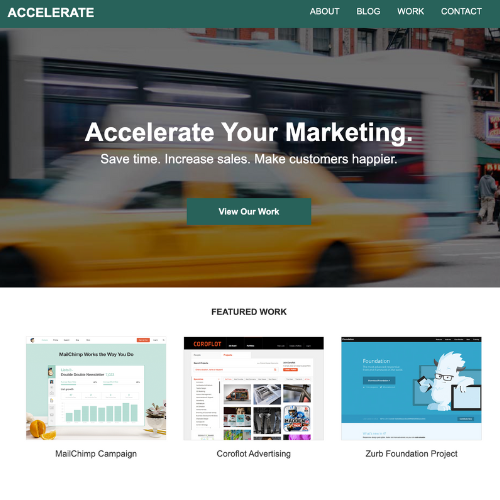
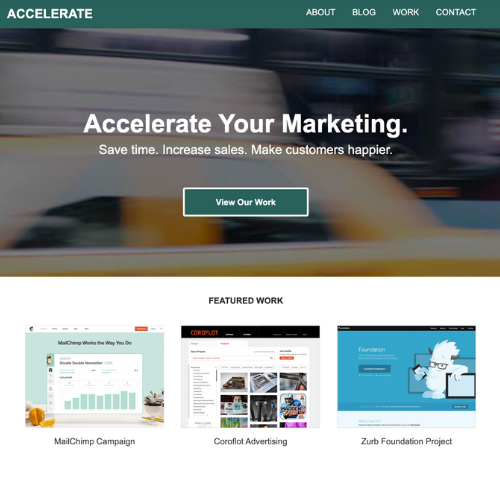
Added PromptAlchemy project, replaced Accelerate screenshot, added margin-top: auto to link buttons

diff --git a/index.html b/index.html
@@ -125,7 +125,7 @@
                     <a class="button" href="https://alisonh23.sg-host.com/" target="_blank" aria-label="View custom WordPress site">View Site</a>
                     <a class="button" href="https://github.com/alison-ah/accelerate-marketing-wp/tree/main" target="_blank" aria-label="View custom WordPress code">View Code</a>
                   </div>
-                </div>
+              </div>
 
               <div class="project">  
                 <h3><strong>Full Stack Collection App</strong><br><i>Family library card catalog</i></h3>
@@ -154,7 +154,7 @@
                     <a class="button" href="https://family-library-app.replit.app/" target="_blank" aria-label="View family library app site">View Site</a>
                     <a class="button" href="https://replit.com/@alison-ah/Family-Library-App-REST-API" target="_blank" aria-label="View family library app code">View Code</a>
                   </div>
-                </div>
+              </div>
 
               <div class="project">
                 <h3><strong>React App with Filters</strong><br><i>Resource list for learning to code</i></h3>  
@@ -164,7 +164,7 @@
                   </figure>
                   <h4>Skills</h4>
                   <ul>
-                    <li>Utilization of HTML, CSS, and JavaScript React</li>
+                    <li>Utilization of HTML, CSS, and React.js</li>
                     <li>Image editing</li>
                     <li>Application of accessible design practices</li>
                     <li>Updating and adapting legacy code</li>
@@ -172,7 +172,7 @@
                   <h4>Tools</h4>
                   <ul>
                     <li>CodeSandbox</li>
-                    <li>GitHub</li>
+                    <li>GitHub Repository</li>
                     <li>Netlify</li>
                     <li>Canva</li>
                     <li>Chrome DevTools</li>
@@ -186,7 +186,39 @@
                     <a class="button" href="https://github.com/alison-ah/learning-to-code-resource-list-with-filter" target="_blank" aria-label="View resource list code">View Code</a>
                   </div>
               </div>
+      
+
+              <div class="project">
+                <h3><strong>AI Prompt Builder Powered by React</strong><br><i>PromptAlchemy: A Chingu team project</i></h3>  
+                  <figure>
+                    <a href="https://promptalchemy-gemini.netlify.app/" target="_blank" aria-hidden="true">
+                    <img src="img/promptalchemy.png" alt="preview of PromptAlchemy app"></a>
+                  </figure>
+                  <h4>Skills</h4>
+                  <ul>
+                    <li>Utilization of HTML, CSS, and React.js</li>
+                    <li>Implementation of Google Gemini API</li>
+                    <li>Collaborative development on a remote team using agile practices, including both solo and pair programming</li>
+                    <li>Application of accessible design practices</li>
+                  </ul>
+                  <h4>Tools</h4>
+                  <ul>
+                    <li>React + Vite</li>
+                    <li>Google Gemini API</li>
+                    <li>Netlify</li>
+                    <li>Figma</li>
+                    <li>Chrome DevTools</li>
+                    <li>GitHub Repository and Projects</li>
+                  </ul>
+                  <h4>Description</h4>
+                  <p>This app was created through a <span><a href="https://chingu.io" target="_blank">Chingu</a></span> tier 1 voyage. As a team, we built a web application, PromptAlchemy, which lets its users become more effective at building AI prompts.</p>
+                  <p>It follows a structured methodology called a <span><a href="https://ai.plainenglish.io/prompt-engineering-with-pentagram-framework-persona-context-task-output-and-constraint-3717b0733578" target="_blank">Pentagram</a></span> to help the user build good prompts, test them, and learn to improve on them along the way.</p>
+                  <div class="links">
+                    <a class="button" href="https://promptalchemy-gemini.netlify.app/" target="_blank" aria-label="View PromptAlchemy site">View Site</a>
+                    <a class="button" href="https://github.com/chingu-voyages/V54-tier1-team-02?tab=readme-ov-file" target="_blank" aria-label="View PromptAlchemy code">View Code</a>
+                  </div>
             </div>
+          </div>
           </div>
         </div>
       </section>

diff --git a/css/style.css b/css/style.css
@@ -313,6 +313,10 @@ nav ul li a:hover {
   list-style: disc;
 }
 
+.links {
+  margin-top: auto;
+}
+
 .button {
   display: flex;
   font-size: 1.15em;
